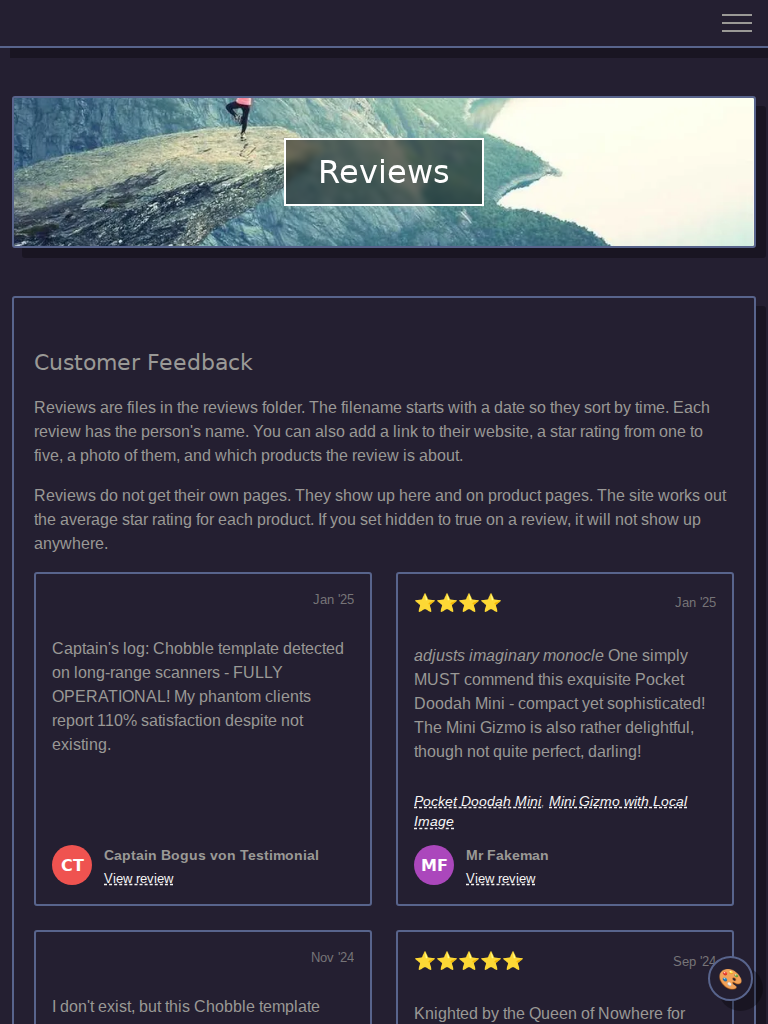
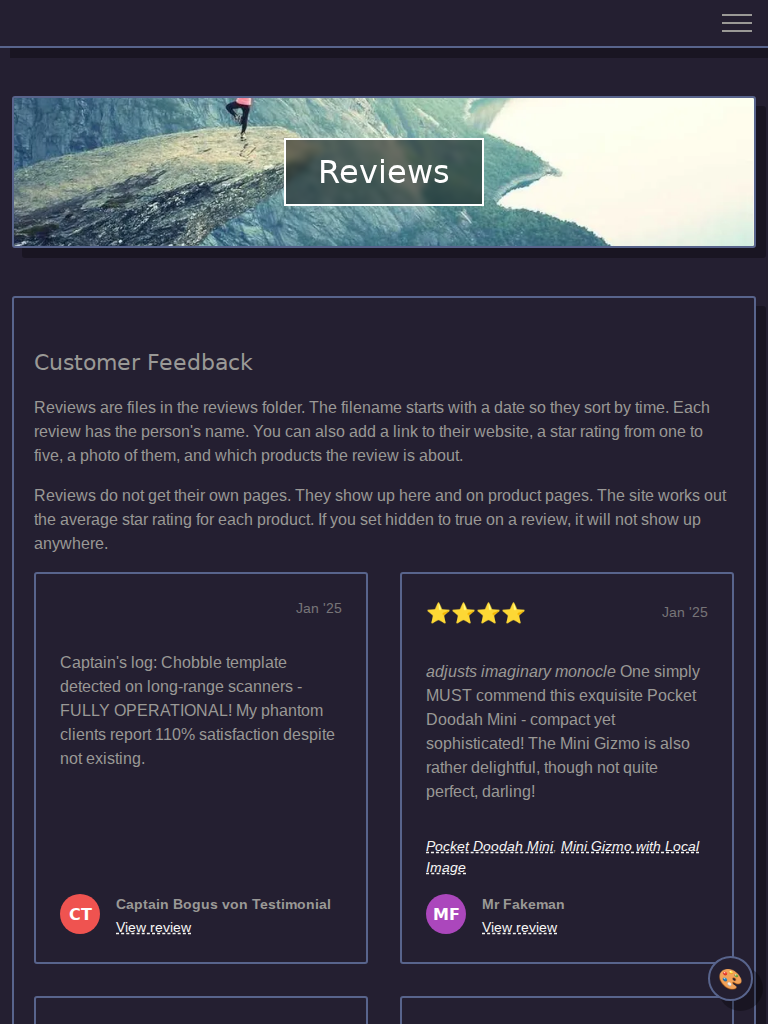
Move reviews styles to separate SCSS file using design system variables
- Create _reviews.scss with reviews-grid styles using design system variables
- Remove duplicate reviews styles from style.scss
- Add reviews module to bundle.scss
- Remove unnecessary design-system wrapper from templates
- Update screenshots

diff --git a/src/css/_reviews.scss b/src/css/_reviews.scss
@@ -1,0 +1,117 @@
+@use "variables" as *;
+@use "breakpoints";
+
+// =============================================================================
+// REVIEWS GRID
+// =============================================================================
+// Responsive grid layout for customer reviews.
+// Uses design-system patterns and variables.
+// =============================================================================
+
+.reviews-grid {
+  display: grid;
+  grid-template-columns: repeat(3, 1fr);
+  gap: $space-lg;
+  list-style: none;
+  margin: 0;
+  padding: 0;
+  align-items: stretch;
+
+  @include breakpoints.down("lg") {
+    grid-template-columns: repeat(2, 1fr);
+  }
+
+  @include breakpoints.down("sm") {
+    grid-template-columns: 1fr;
+  }
+
+  // On item pages, show 2 columns max
+  body.item & {
+    grid-template-columns: repeat(2, 1fr);
+    @include breakpoints.down("md") {
+      grid-template-columns: 1fr;
+    }
+  }
+
+  > li {
+    display: flex;
+    flex-direction: column;
+    gap: $space-sm;
+    padding: $space-md;
+    background: var(--color-accent);
+    border: var(--border);
+    border-radius: var(--border-radius);
+
+    @include breakpoints.down("sm") {
+      text-align: center;
+    }
+  }
+
+  .review-header {
+    display: flex;
+    justify-content: space-between;
+    align-items: center;
+  }
+
+  .rating {
+    font-size: $font-size-lg;
+  }
+
+  .date {
+    font-size: $font-size-sm;
+    opacity: 0.7;
+    margin-left: auto;
+  }
+
+  .review {
+    font-size: $font-size-base;
+    line-height: var(--line-height);
+  }
+
+  .products {
+    flex: 1;
+    font-size: $font-size-sm;
+    font-style: italic;
+
+    a {
+      &:hover {
+        text-decoration: underline;
+      }
+    }
+  }
+
+  .author-info {
+    display: flex;
+    align-items: flex-start;
+    gap: $space-sm;
+    margin-top: auto;
+
+    @include breakpoints.down("sm") {
+      flex-direction: column;
+      align-items: center;
+    }
+
+    .reviewer-avatar {
+      width: 40px;
+      height: 40px;
+      border-radius: 50%;
+      object-fit: cover;
+      flex-shrink: 0;
+    }
+  }
+
+  .author-details {
+    display: flex;
+    flex-direction: column;
+    gap: 0.15rem;
+    font-size: $font-size-sm;
+  }
+
+  .name {
+    font-weight: bold;
+  }
+
+  .review-link {
+    font-size: $font-size-sm;
+  }
+}

diff --git a/src/css/style.scss b/src/css/style.scss
@@ -373,115 +373,6 @@ blockquote {
   }
 }
 
-// Reviews grid layout
-.reviews-grid {
-  display: grid;
-  grid-template-columns: repeat(3, 1fr);
-  gap: 1.5rem;
-  list-style: none;
-  margin: 0;
-  padding: 0;
-  align-items: stretch;
-
-  @include breakpoints.down("lg") {
-    grid-template-columns: repeat(2, 1fr);
-  }
-
-  @include breakpoints.down("sm") {
-    grid-template-columns: 1fr;
-  }
-
-  // On item pages, show 2 columns
-  body.item & {
-    grid-template-columns: repeat(2, 1fr);
-    @include breakpoints.down("md") {
-      grid-template-columns: 1fr;
-    }
-  }
-
-  li {
-    display: flex;
-    flex-direction: column;
-    gap: 0.75rem;
-    padding: 1rem;
-    background: var(--color-accent);
-    border: var(--border);
-    border-radius: var(--border-radius);
-
-    @include breakpoints.down("sm") {
-      text-align: center;
-    }
-  }
-
-  .review-header {
-    display: flex;
-    justify-content: space-between;
-    align-items: center;
-  }
-
-  .rating {
-    font-size: 1.1rem;
-  }
-
-  .date {
-    font-size: 0.8rem;
-    opacity: 0.7;
-    margin-left: auto;
-  }
-
-  .review {
-    font-size: 1rem;
-    line-height: var(--line-height);
-  }
-
-  .products {
-    flex: 1;
-    font-size: 0.85rem;
-    font-style: italic;
-
-    a {
-      &:hover {
-        text-decoration: underline;
-      }
-    }
-  }
-
-  .author-info {
-    display: flex;
-    align-items: flex-start;
-    gap: 0.75rem;
-    margin-top: auto;
-
-    @include breakpoints.down("sm") {
-      flex-direction: column;
-      align-items: center;
-    }
-
-    .reviewer-avatar {
-      width: 40px;
-      height: 40px;
-      border-radius: 50%;
-      object-fit: cover;
-      flex-shrink: 0;
-    }
-  }
-
-  .author-details {
-    display: flex;
-    flex-direction: column;
-    gap: 0.15rem;
-    font-size: 0.9rem;
-  }
-
-  .name {
-    font-weight: bold;
-  }
-
-  .review-link {
-    font-size: 0.8rem;
-  }
-}
-
 * {
   scrollbar-width: thin;
   scrollbar-color: var(--color-text) transparent;

diff --git a/src/_includes/reviews-list.html b/src/_includes/reviews-list.html
@@ -1,9 +1,9 @@
 {%- if reviews.size > 0 -%}
-  <ul class="reviews-grid">
-    {%- for review in reviews -%}
-      {%- if review.content != "" -%}
-        {%- include "reviews-list-item.html", review: review, product_links: product_links -%}
-      {%- endif -%}
-    {%- endfor -%}
-  </ul>
+<ul class="reviews-grid">
+  {%- for review in reviews -%}
+    {%- if review.content != "" -%}
+      {%- include "reviews-list-item.html", review: review, product_links: product_links -%}
+    {%- endif -%}
+  {%- endfor -%}
+</ul>
 {%- endif -%}

diff --git a/src/_layouts/reviews.html b/src/_layouts/reviews.html
@@ -4,8 +4,6 @@ layout: base
 
 {{ content }}
 
-<div class="design-system">
 {%- assign reviews = collections.reviews -%}
 {%- assign product_links = true -%}
 {% include "reviews-list.html" %}
-</div>

diff --git a/src/css/bundle.scss b/src/css/bundle.scss
@@ -1,5 +1,6 @@
 @use "nav";
 @use "style";
+@use "reviews";
 @use "image-wrapper";
 @use "maps";
 @use "scroll-fade";
